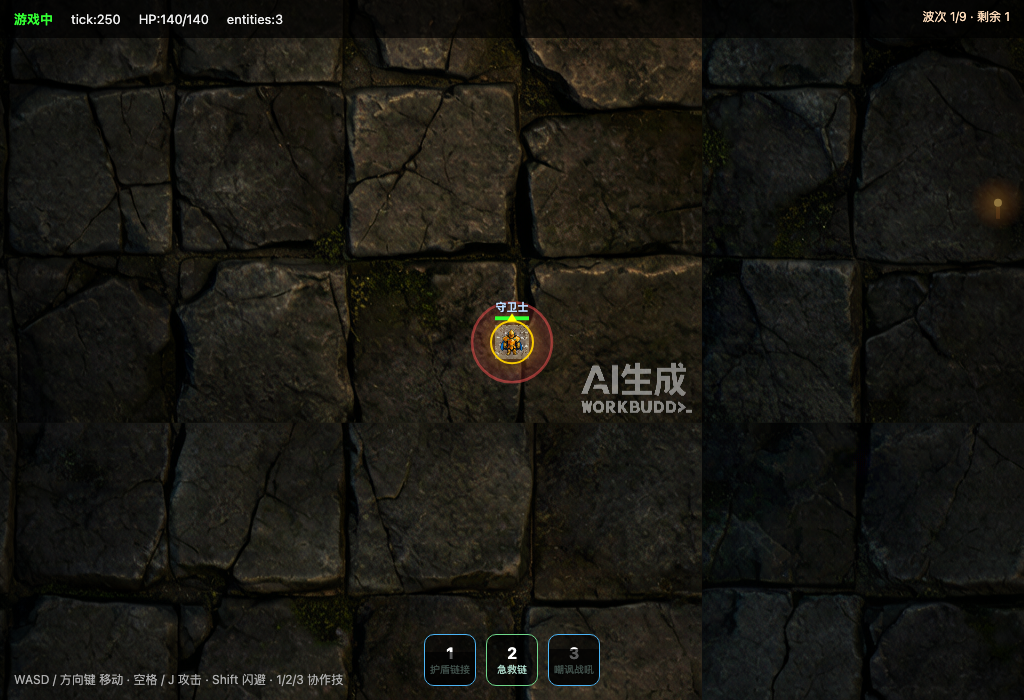
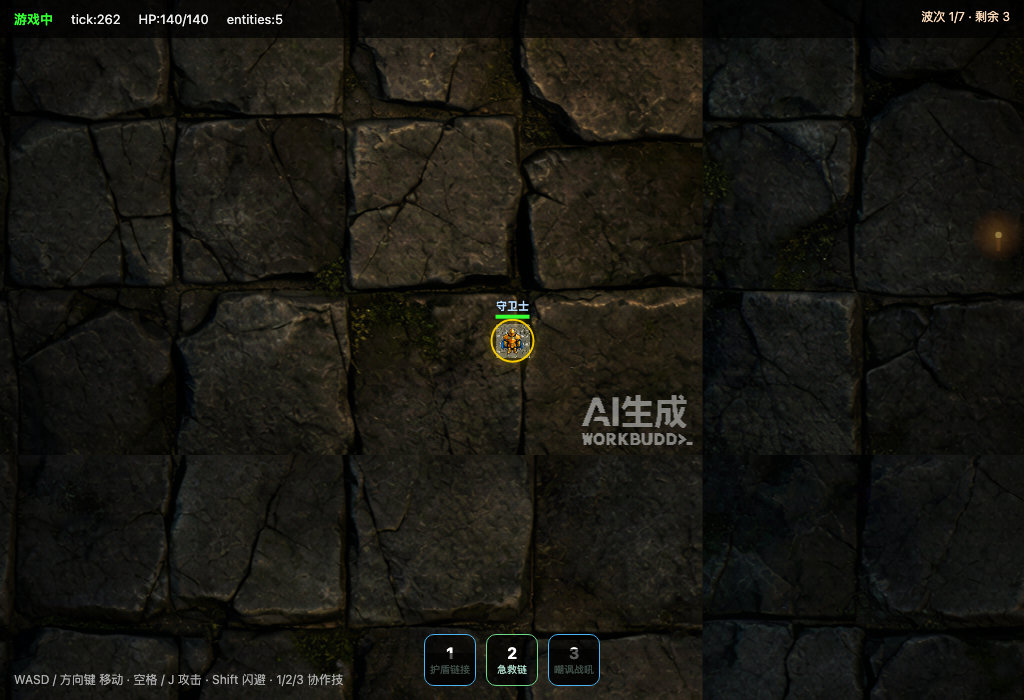
feat(games/dungeon-online): M13 self-destruct bomber_imp variant (自爆兵)
- sim-core: bomber_imp prototype (AOE_FILL, speed135, telegraph12, dmg14 AOE);
  dungeon-gen 15% inject (wave>1, preserves wave-1 grunt guarantee);
  enemy-ai rush branch + world.step AOE detonation + self-removal (Discipline B).
  new bomber-imp.test.ts (3 cases). GOLDEN_LAYOUT_HASH re-locked (deterministic,
  byte-equal 3-run); world/playtest golden unchanged 635572e0… (bombers are wave≥2).
  NOTE: deliberate 12-tick telegraph (< D12 18-floor) — short fuse tradeoff for a
  clearly-telegraphed suicide enemy; flagged for user tuning.
- client: 『自爆』 label + danger-red color; imminent-detonation pulsing outline
  when bomber holds active telegraph; GAME.bomberCount + verify getter injection.
- verify-client.mjs: 13/13 PASS (zero errors).

diff --git a/games/dungeon-online/packages/sim-core/tests/unit/bomber-imp.test.ts b/games/dungeon-online/packages/sim-core/tests/unit/bomber-imp.test.ts
@@ -1,0 +1,129 @@
+/**
+ * bomber-imp.test.ts — bomber_imp（自爆兵）敌宗测试（系统③/⑧，M13，sim-core 单测）
+ *
+ * 覆盖（M13 自爆兵）：
+ *  - (A) 原型数据（③）：bomber_imp 存在、shape === AOE_FILL、speed > grunt_swarm、telegraphTicks ≤ 14。
+ *  - (B) 敌人 AI（⑧）：玩家进入 attackRange 时，bomber 在 next step 起 telegraph（AOE_FILL）。
+ *  - (C) 自爆（world.step 编排）：telegraph 抵达 applyTick → 半径内玩家受 AOE 伤害 + 自爆兵自毁移除。
+ *
+ * 确定性：测试仅做固定 seed（EMBER-S1/biome 0，与 brute-charger.test.ts 同约定）下的确定性注入与步进，
+ *   不引入 Date/Math.random。bomber 仅在 wave≥2 经 dungeon-gen 注入，故测试直接取首个 ENEMY 活引用
+ *   改写 enemyTypeId 为 bomber_imp（同 enemy-ai.test.ts 将 grunt 搬到玩家身旁的测试手法）。
+ *
+ * 运行：node --experimental-strip-types --test tests/unit/bomber-imp.test.ts
+ */
+
+import test from "node:test";
+import assert from "node:assert/strict";
+import { createWorld } from "../../src/world.ts";
+import {
+  ENEMY_PROTOTYPES,
+  EntityKind,
+  EntityStatus,
+  TelegraphShape,
+  type Actor,
+} from "../../src/types.ts";
+
+/** 构造 2 玩家（tank+ranger）世界，并取首个 ENEMY（wave 1 必为 grunt_swarm）活引用。 */
+function mkWorld() {
+  const world = createWorld({
+    runId: "BOMBER-IMP",
+    seed: "EMBER-S1", // 与 brute-charger.test.ts 同约定
+    biomeId: 0,
+    players: [
+      { seatId: 0, userId: "P1", classId: "tank" },
+      { seatId: 1, userId: "P2", classId: "ranger" },
+    ],
+  });
+  const actors = world.actors();
+  const p0 = actors.find((a) => a.ownerId === 0)!;
+  const p1 = actors.find((a) => a.ownerId === 1)!;
+  const firstEnemy = actors.find((a) => a.kind === EntityKind.ENEMY)!;
+  return { world, p0, p1, firstEnemy };
+}
+
+/** 把给定敌人活引用改写为 bomber_imp（仅测试用；复用 ENEMY_PROTOTYPES 的平衡初稿字段）。 */
+function makeBomber(e: Actor): void {
+  e.enemyTypeId = "bomber_imp";
+  const proto = ENEMY_PROTOTYPES.bomber_imp;
+  e.hp = proto.hpMin;
+  e.maxHp = proto.hpMin;
+  e.status = EntityStatus.ALIVE;
+}
+
+// ============================================================
+// (A) 原型数据（③）
+// ============================================================
+
+test("(A) bomber_imp prototype sanity", () => {
+  assert.ok(ENEMY_PROTOTYPES.bomber_imp, "bomber_imp prototype present");
+  assert.equal(
+    ENEMY_PROTOTYPES.bomber_imp.shape,
+    TelegraphShape.AOE_FILL,
+    "telegraph shape is AOE_FILL (1)",
+  );
+  assert.ok(
+    ENEMY_PROTOTYPES.bomber_imp.speed > ENEMY_PROTOTYPES.grunt_swarm.speed,
+    `bomber speed ${ENEMY_PROTOTYPES.bomber_imp.speed} > grunt ${ENEMY_PROTOTYPES.grunt_swarm.speed}`,
+  );
+  assert.ok(
+    ENEMY_PROTOTYPES.bomber_imp.telegraphTicks <= 14,
+    `short telegraph ticks ${ENEMY_PROTOTYPES.bomber_imp.telegraphTicks} <= 14`,
+  );
+  assert.equal(ENEMY_PROTOTYPES.bomber_imp.tier, "grunt", "bomber is a grunt-tier rusher");
+});
+
+// ============================================================
+// (B) 敌人 AI（⑧）：范围内起 telegraph
+// ============================================================
+
+test("(B) bomber_imp starts an AOE telegraph when a player is within attackRange", () => {
+  const { world, p0, firstEnemy } = mkWorld();
+  makeBomber(firstEnemy);
+  // 玩家贴到 bomber 身旁（进入 attackRange=36）。
+  p0.x = firstEnemy.x + 5;
+  p0.y = firstEnemy.y;
+
+  world.step(); // 下一 step：AI 产出 ATTACK → world 经 ⑦ 启动 telegraph。
+
+  const after = world.actors().find((a) => a.id === firstEnemy.id)!;
+  assert.ok(after.telegraph != null, "bomber started a telegraph on the next step");
+  // 快照核对 telegraph 形状为 AOE_FILL（已接线的客户端渲染路径）。
+  const snap = world.snapshot().entities.find((e) => e.id === firstEnemy.id);
+  assert.ok(snap?.telegraph != null, "telegraph present in snapshot");
+  assert.equal(snap!.telegraph!.shape, TelegraphShape.AOE_FILL, "snapshot telegraph shape = AOE_FILL");
+});
+
+// ============================================================
+// (C) 自爆（world.step）：AOE 伤害 + 自毁
+// ============================================================
+
+test("(C) bomber_imp detonates: AOE damage to nearby players + self-removal", () => {
+  const { world, p0, p1, firstEnemy } = mkWorld();
+  makeBomber(firstEnemy);
+  // bomber 居中，两名玩家均落入 blast 半径（attackRange=36）。
+  firstEnemy.x = p0.x + 5;
+  firstEnemy.y = p0.y;
+  p1.x = firstEnemy.x + 10;
+  p1.y = firstEnemy.y;
+
+  const p0hp0 = p0.hp;
+  const p1hp0 = p1.hp;
+
+  // 推进超过 telegraphTicks(12)：applyTick 抵达时结算 AOE 并自毁。
+  for (let i = 0; i < 30; i++) world.step();
+
+  // (i) 至少一名邻近玩家受 AOE 伤害。
+  assert.ok(
+    p0.hp < p0hp0 || p1.hp < p1hp0,
+    "at least one nearby player took AOE damage",
+  );
+
+  // (ii) 自爆兵已自毁移除（本 tick 末尾 dead-enemy 清理移除 DOWNED 敌人）。
+  const bomberAfter = world.actors().find((a) => a.enemyTypeId === "bomber_imp");
+  assert.equal(bomberAfter, undefined, "bomber self-removed from world entities");
+
+  // 自毁路径经 world.step 落地：断言已无 bomber 残留（含 hp/status 已归零），验证清扫闭环。
+  const inSnapshot = world.snapshot().entities.some((e) => e.enemyTypeId === "bomber_imp");
+  assert.equal(inSnapshot, false, "bomber absent from snapshot entities after detonation");
+});

diff --git a/games/dungeon-online/packages/sim-core/src/world.ts b/games/dungeon-online/packages/sim-core/src/world.ts
@@ -542,29 +542,57 @@ export function createWorld(opts: CreateWorldOpts): World {
       // 前摇结算（D12）：applyTick <= 当前 tick 的攻击经 ⑦ 权威结算（C11 服务端伤害）。
       for (const a of actors) {
         if (a.telegraph && a.telegraph.applyTick <= world.tick) {
-          const target = actors.find(
-            (t) => t.id === a.telegraph!.targetId && (t.status & EntityStatus.ALIVE) !== 0,
-          );
-          if (target) {
-            // E6：敌人来源 → 伤害取 ENEMY_PROTOTYPES 平衡初稿（world 经意图提交的 enemyDamage）；
-            //     玩家来源 → PLAYER_ATTACK_DAMAGE（resolveDamage 内裁决，C11 忽略 amount）。
-            const enemyDamage =
-              a.enemyTypeId != null ? ENEMY_PROTOTYPES[a.enemyTypeId].attackDamage : undefined;
-            resolveDamage(combatState, {
-              sourceId: a.id,
-              targetId: target.id,
-              amount: 0,
-              tick: world.tick,
-              kind: a.telegraph.kind,
-              enemyDamage,
-            });
-            // 死亡掉落（仅敌人/boss；玩家倒地不掉落）：hp≤0 且刚置 DOWNED → 确定性生 loot。
-            if (
-              (target.kind === EntityKind.ENEMY || target.kind === EntityKind.BOSS) &&
-              target.hp <= 0 &&
-              (target.status & EntityStatus.DOWNED) !== 0
-            ) {
-              trySpawnLoot(target, world.tick);
+          const proto = a.enemyTypeId != null ? ENEMY_PROTOTYPES[a.enemyTypeId] : null;
+          if (a.enemyTypeId === "bomber_imp" && proto) {
+            // 自爆兵 AOE（M13）：applyTick 抵达 → 对 bomber 半径（=attackRange）内所有 ALIVE 玩家，
+            // 经 ⑦ resolveDamage 各结算 attackDamage（AOE，非仅原目标 telegraph.targetId）；随后自毁。
+            // 纪律 B：AOE 伤害走 resolveDamage（唯一 hp 结算出口）；自毁（set hp=0 + DOWNED）发生在
+            // 本 world.step 内（授权自改路径），由本 tick 末尾 dead-enemy 清理移除（M7）。自杀单位
+            // 非被玩家击杀的目标，不在此触发 trySpawnLoot（不掉 loot）。
+            const r2 = proto.attackRange * proto.attackRange;
+            for (const t of actors) {
+              if (t.kind !== EntityKind.PLAYER) continue;
+              if ((t.status & EntityStatus.ALIVE) === 0) continue;
+              const dx = t.x - a.x;
+              const dy = t.y - a.y;
+              if (dx * dx + dy * dy <= r2) {
+                resolveDamage(combatState, {
+                  sourceId: a.id,
+                  targetId: t.id,
+                  amount: 0,
+                  tick: world.tick,
+                  kind: a.telegraph.kind,
+                  enemyDamage: proto.attackDamage,
+                });
+              }
+            }
+            a.hp = 0;
+            a.status |= EntityStatus.DOWNED;
+          } else {
+            const target = actors.find(
+              (t) => t.id === a.telegraph!.targetId && (t.status & EntityStatus.ALIVE) !== 0,
+            );
+            if (target) {
+              // E6：敌人来源 → 伤害取 ENEMY_PROTOTYPES 平衡初稿（world 经意图提交的 enemyDamage）；
+              //     玩家来源 → PLAYER_ATTACK_DAMAGE（resolveDamage 内裁决，C11 忽略 amount）。
+              const enemyDamage =
+                a.enemyTypeId != null ? ENEMY_PROTOTYPES[a.enemyTypeId].attackDamage : undefined;
+              resolveDamage(combatState, {
+                sourceId: a.id,
+                targetId: target.id,
+                amount: 0,
+                tick: world.tick,
+                kind: a.telegraph.kind,
+                enemyDamage,
+              });
+              // 死亡掉落（仅敌人/boss；玩家倒地不掉落）：hp≤0 且刚置 DOWNED → 确定性生 loot。
+              if (
+                (target.kind === EntityKind.ENEMY || target.kind === EntityKind.BOSS) &&
+                target.hp <= 0 &&
+                (target.status & EntityStatus.DOWNED) !== 0
+              ) {
+                trySpawnLoot(target, world.tick);
+              }
             }
           }
           a.telegraph = null; // 一次性结算后清除前摇

diff --git a/games/dungeon-online/packages/sim-core/src/dungeon-gen.ts b/games/dungeon-online/packages/sim-core/src/dungeon-gen.ts
@@ -59,12 +59,11 @@ export function generateLayout(seed: string, biomeId: number): LayoutSnapshot {
     floorSequence.push(rng.nextInt(0, biomeId + 2));
   }
 
-  // 基础刷怪池（排除 caster_ember 与 brute_charger）：维持 grunt/elite/boss 三类的相对分布不变。
-  // caster_ember 仅以「确定性低密度」方式注入（见下方 elite 槽 ~20% 替换），不计入随机池，
-  // 避免其占比过高（≈25%）破坏「远程施法者低频出现」的设计意图。
-  // brute_charger 同理（见下方 grunt 槽 ~20% 替换），不计入随机池，控制其出现频率。
+  // 基础刷怪池（排除 caster_ember、brute_charger、bomber_imp）：维持 grunt/elite/boss 三类的相对分布不变。
+  // caster_ember / brute_charger / bomber_imp 均仅以「确定性低密度」方式注入（见下方各自槽位替换），
+  // 不计入随机池，控制其出现频率，避免破坏各原型的设计占比意图。
   const enemyTypeIds = Object.keys(ENEMY_PROTOTYPES).filter(
-    (id) => id !== "caster_ember" && id !== "brute_charger",
+    (id) => id !== "caster_ember" && id !== "brute_charger" && id !== "bomber_imp",
   );
   const spawnPoints: SpawnPoint[] = [];
   let wave = 0;
@@ -77,10 +76,26 @@ export function generateLayout(seed: string, biomeId: number): LayoutSnapshot {
       // 不替代 boss_emberlord / grunt_swarm；不新增精英总数；rng 由 seed 派生，无 Date/Math.random。
       // brute_charger：确定性低密度注入 —— 仅当本槽为 grunt_swarm 时，以 20% 概率替换为激进冲锋者。
       // 不替代 elite_warden / boss_emberlord；rng 由 seed 派生，无 Date/Math.random；保持可控频率。
-      const enemyTypeId =
-        (rolled === "elite_warden" && rng.nextBool(0.2) ? "caster_ember"
-          : rolled === "grunt_swarm" && rng.nextBool(0.2) ? "brute_charger"
-          : rolled);
+      // bomber_imp（自爆兵）：确定性低密度注入 —— 仅当本槽为 grunt_swarm 且 wave>1 时，以 15% 概率
+      //   替换为自爆兵。rng 抽流与「仅 brute」先例逐位一致（复用 grunt 槽那单次 nextFloat）：
+      //   r<0.2 → brute_charger；0.2≤r<0.35 → bomber_imp（=15% of grunt rolls）；否则 grunt_swarm。
+      //   仅 wave≥2 注入 bomber，wave 1 绝不注入（保留「wave 1 至少含一 grunt_swarm」保证，见下方）。
+      //   无 Date/Math.random；整体确定性 intact。
+      let enemyTypeId: string;
+      if (rolled === "elite_warden") {
+        enemyTypeId = rng.nextBool(0.2) ? "caster_ember" : rolled;
+      } else if (rolled === "grunt_swarm") {
+        const r = rng.nextFloat();
+        if (r < 0.2) {
+          enemyTypeId = "brute_charger";
+        } else if (wave > 1 && r < 0.35) {
+          enemyTypeId = "bomber_imp";
+        } else {
+          enemyTypeId = "grunt_swarm";
+        }
+      } else {
+        enemyTypeId = rolled;
+      }
       const count = rng.nextInt(2, 6);
       const pos: Vec2 = {
         x: rng.nextInt(0, GRID_W - 1) * 32,

diff --git a/games/dungeon-online/apps/web-client/index.html b/games/dungeon-online/apps/web-client/index.html
@@ -531,6 +531,7 @@ function enemySpriteKey(tid) {
   if (tid.startsWith('elite')) return 'elite';
   if (tid.startsWith('caster')) return 'caster';
   if (tid.startsWith('brute')) return 'grunt'; // brute_charger 复用 grunt 精灵（无专属资产）
+  if (tid.startsWith('bomber')) return 'grunt'; // M13 自爆兵 复用 grunt 精灵（无专属资产）
   if (tid.startsWith('boss')) return 'boss';
   return 'grunt';
 }
@@ -550,7 +551,7 @@ function spriteSizeFor(e) {
 }
 
 const CLASS_LABEL = { tank: '守卫士', ranger: '游侠', mage: '术士', healer: '医者' };
-const ENEMY_LABEL = { grunt_swarm: '', elite_warden: '精英', caster_ember: '法师', brute_charger: '冲锋', boss_emberlord: '余烬领主' };
+const ENEMY_LABEL = { grunt_swarm: '', elite_warden: '精英', caster_ember: '法师', brute_charger: '冲锋', bomber_imp: '自爆', boss_emberlord: '余烬领主' };
 
 // ── interpolation of remote entities ──
 function interpPos(id, t) {
@@ -631,6 +632,7 @@ function drawLabel(e, x, y, size) {
     text = ENEMY_LABEL[e.enemyTypeId];
     color = e.enemyTypeId.startsWith('caster') ? '#d8f'
           : e.enemyTypeId.startsWith('brute') ? '#ff7a4a'
+          : e.enemyTypeId.startsWith('bomber') ? '#ff5a3c'
           : '#fc8';
   }
   if (!text) return;
@@ -880,6 +882,20 @@ function drawSpriteAndOverlays(e, x, y, snap) {
       ctx.fillText('狂暴', x, y - size / 2 - 26);
       ctx.restore();
     }
+    // M13: bomber imminent-detonation cue — when a bomber holds an active telegraph (about to
+    // blow), pulse a fast danger outline so players read "back off" beyond the ground AOE fill.
+    if (e.kind === 1 && e.enemyTypeId === 'bomber_imp' && e.telegraph != null) {
+      const pulse = 0.55 + 0.45 * Math.abs(Math.sin(performance.now() / 70));
+      ctx.save();
+      ctx.globalAlpha = pulse;
+      ctx.strokeStyle = '#ff2a1a';
+      ctx.lineWidth = 3;
+      ctx.shadowColor = '#ff2a1a'; ctx.shadowBlur = 14;
+      ctx.beginPath();
+      ctx.arc(x, y, size / 2 + 5, 0, Math.PI * 2);
+      ctx.stroke();
+      ctx.restore();
+    }
   } else {
     drawCircleFallback(e, x, y, snap);
   }
@@ -1016,6 +1032,8 @@ function draw() {
   // Read from GAME.lastSnapshot (getter-consistent, like GAME.downedAllies) so injected-synthetic
   // enrage entities in automation are also detected deterministically.
   GAME.anyEnraged = (GAME.lastSnapshot?.entities || []).some((e) => (e.kind === 1 || e.kind === 2) && e.enraged === true);
+  // M13: expose bomber_imp count (server-authoritative) for automation gate.
+  GAME.bomberCount = (GAME.lastSnapshot?.entities || []).filter((e) => e.kind === 1 && e.enemyTypeId === 'bomber_imp').length;
   // M11: expose live particle count (death/hit juice) for automation gate.
   GAME.particleCount = particles.length;
   // ── skill cooldown HUD ──

diff --git a/games/dungeon-online/packages/sim-core/src/enemy-ai.ts b/games/dungeon-online/packages/sim-core/src/enemy-ai.ts
@@ -89,6 +89,23 @@ export function stepEnemyAi(self: EnemyAiSelf, ctx: EnemyAiContext): EnemyIntent
   }
 
   const dist = Math.sqrt(bestSq);
+
+  // ── bomber_imp（自爆兵）：激进 rush 者，无普攻冷却门控 ──
+  // 进入 attackRange 即发起 ATTACK 意图（world 经 ⑦ 启动 AOE_FILL telegraph；applyTick 时
+  // world.step 结算 AOE 伤害并自毁）。永不 kite、直冲最近玩家——本分支完整处理其 rush/attack 行为，
+  // 与 brute_charger 先例一致（无额外特殊逻辑，确定性 intact；纪律 B：仅产出意图，不改状态）。
+  if (self.enemyTypeId === "bomber_imp") {
+    if (dist <= proto.attackRange) {
+      // 范围内 → 必起 telegraph（无冷却门控，直冲+自爆）。
+      return { type: "ATTACK", targetId: nearest.id, damage: proto.attackDamage };
+    }
+    // 否则朝最近玩家 MOVE（归一化单位方向；位移由 world 按 speed/30 施加）。
+    const dx = nearest.x - self.x;
+    const dy = nearest.y - self.y;
+    const len = Math.hypot(dx, dy) || 1;
+    return { type: "MOVE", dir: { x: dx / len, y: dy / len } };
+  }
+
   if (dist <= proto.attackRange) {
     // 在攻击范围内 → 发起攻击意图（伤害取原型平衡初稿值，非玩家 18）。
     return { type: "ATTACK", targetId: nearest.id, damage: proto.attackDamage };

diff --git a/games/dungeon-online/packages/sim-core/src/types.ts b/games/dungeon-online/packages/sim-core/src/types.ts
@@ -305,6 +305,19 @@ export const ENEMY_PROTOTYPES: Record<string, EnemyPrototype> = {
     telegraphTicks: 18, // 0.6s @30Hz（最短下限 MIN_TELEGRAPH_TICKS，更激进的前摇）
     shape: TelegraphShape.RING,
   },
+  bomber_imp: {
+    id: "bomber_imp",
+    tier: "grunt",
+    hpMin: 14,
+    hpMax: 20,
+    attackDamageMin: 0, // 自爆兵 AOE 为定值（非区间随机），Min/Max 置 0 以与③原型表字段一致
+    attackDamageMax: 0,
+    attackDamage: 14, // AOE 扁平伤害（对 blast 半径内每名玩家各结算 14）
+    speed: 135, // 平衡初稿 px/s（远超 grunt 70 / elite 60 / boss 50 / brute 95；高速脆皮冲锋）
+    attackRange: 36, // 平衡初稿 px（= blast 半径：进入即起 telegraph，applyTick 时 AOE 结算）
+    telegraphTicks: 12, // 0.4s @30Hz（短前摇：给玩家「开始发光就后撤」的清晰威胁窗口）
+    shape: TelegraphShape.AOE_FILL, // AOE 填充预警（已接线的客户端 telegraph 渲染路径）
+  },
 };
 
 // ============================================================
